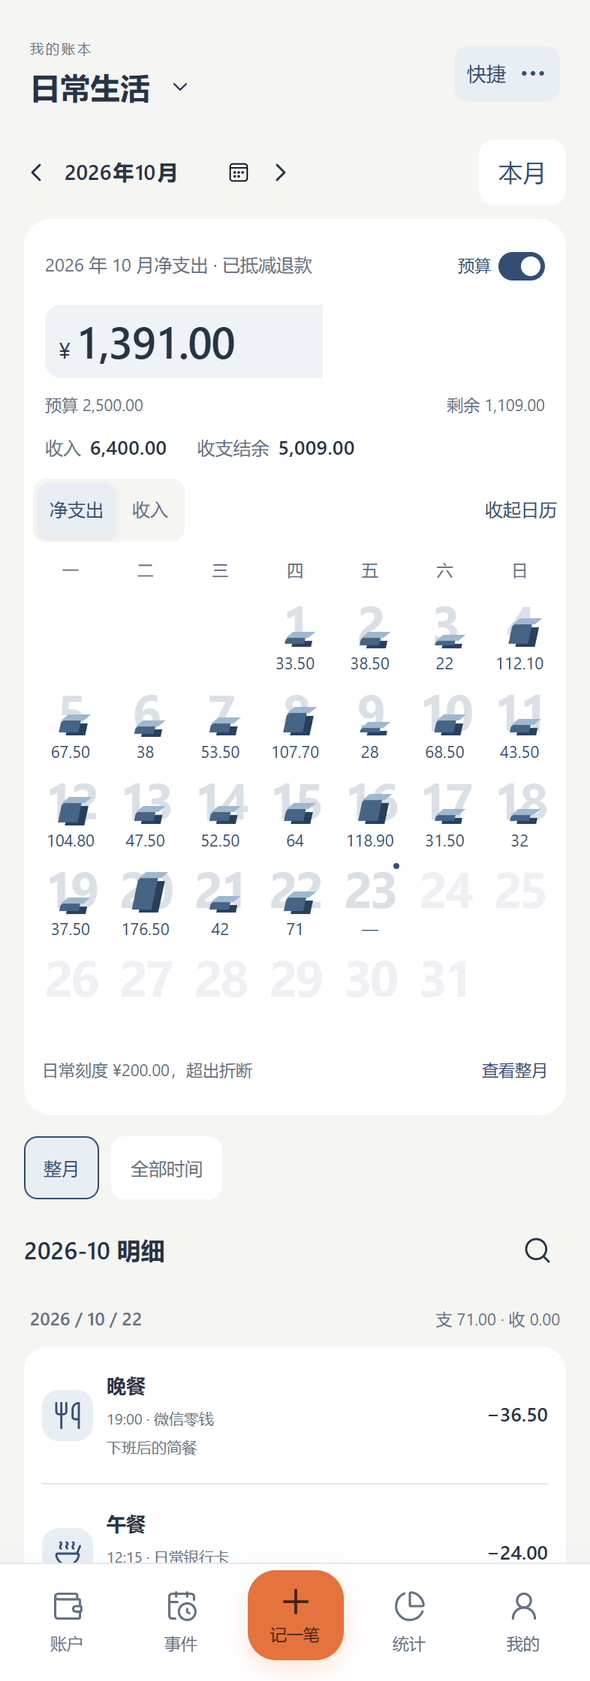
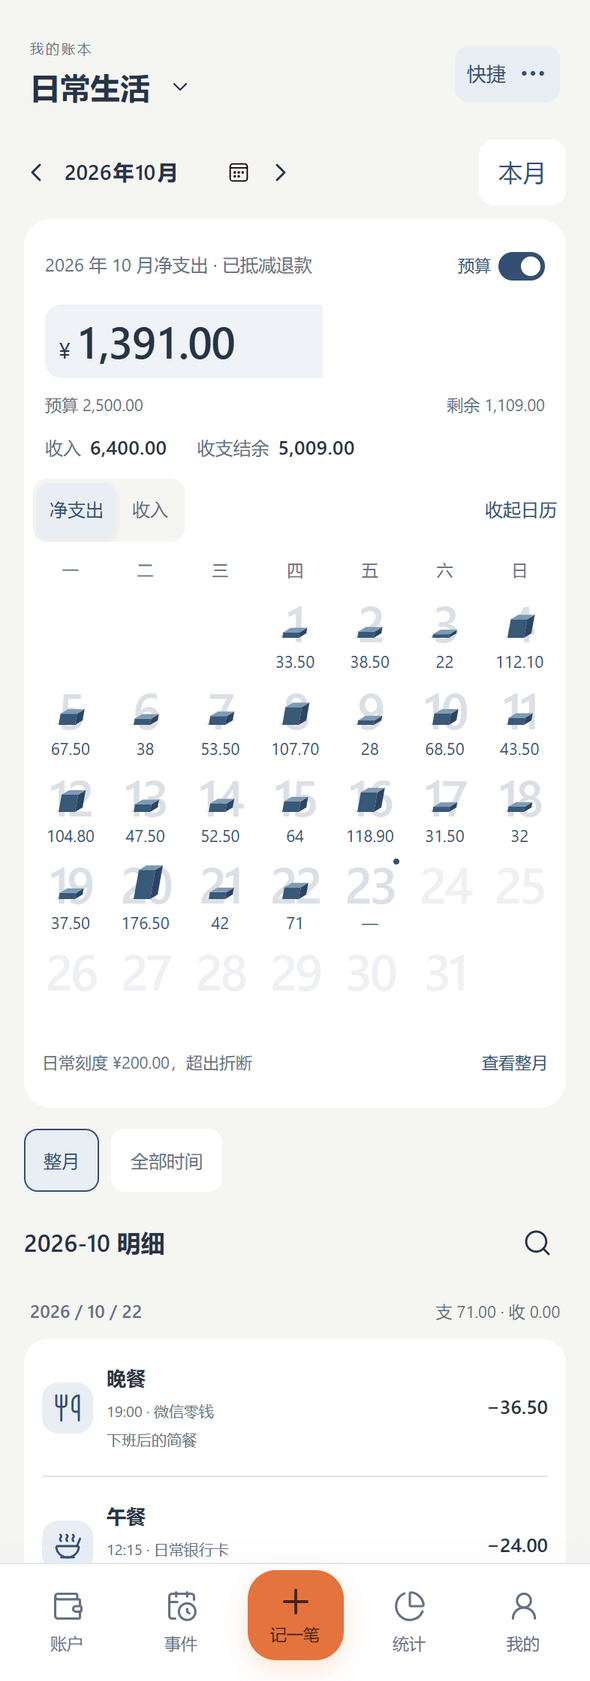
fix: 按原型还原日历柱体并打包钱包图标测试版
- 日历采用原型的连续三面 SVG、22 像素柱高和深浅配色，移除倾斜块硬阴影，保留实际金额、自动刻度和折断含义
- 原型与组件的 20 组渲染像素对照通过后重新截取 README 首页，展示图只使用虚构数据
- 14 项领域测试、12 条浏览器流程和生产构建通过，正式同签名 APK 从版本 10 覆盖到 11 后账本与凭证保持
- 生成包含 E 钱包图标的 0.1.3 测试包，保留当前公开 Release 和下载附件，物理手机效果交由用户实测

diff --git a/src/app/components/CalendarBar.vue b/src/app/components/CalendarBar.vue
@@ -1,0 +1,79 @@
+<script setup lang="ts">
+import { computed } from 'vue';
+const props = defineProps<{ amount: number; ceiling: number }>();
+const shape = computed(() => {
+  const ratio = props.ceiling > 0 ? Math.min(Math.abs(props.amount) / props.ceiling, 1) : 0;
+  // 沿用原型的 40×34 画布与 22px 柱高；三面共用顶点，避免硬阴影产生错位叠片。
+  const h = ratio * 22,
+    negative = props.amount < 0;
+  const base = negative ? 8 : 28,
+    dy = h * (negative ? -1 : 1),
+    dx = h * 0.18;
+  return {
+    ratio,
+    cut: props.ceiling > 0 && Math.abs(props.amount) > props.ceiling,
+    plane: `9,${base} 22,${base} 30,${base - 4} 17,${base - 4}`,
+    front: `12,${base} 23,${base} ${23 + dx},${base - dy} ${12 + dx},${base - dy}`,
+    side: `23,${base} 28,${base - 3} ${28 + dx},${base - 3 - dy} ${23 + dx},${base - dy}`,
+    top: `${12 + dx},${base - dy} ${23 + dx},${base - dy} ${28 + dx},${base - 3 - dy} ${17 + dx},${base - 3 - dy}`,
+  };
+});
+</script>
+<template>
+  <svg
+    class="calendar-bar"
+    :class="{ 'is-negative': amount < 0 }"
+    viewBox="0 0 40 34"
+    aria-hidden="true"
+    focusable="false"
+    :data-cut="shape.cut"
+    :data-ratio="shape.ratio"
+  >
+    <polygon :points="shape.plane" fill="var(--bar-plane)" />
+    <polygon :points="shape.front" fill="var(--bar-front)" />
+    <polygon :points="shape.side" fill="var(--bar-side)" />
+    <polygon :points="shape.top" fill="var(--bar-top)" />
+    <template v-if="shape.cut">
+      <path d="M12 19 L21 14 M20 19 L29 14" stroke="var(--bar-paper)" stroke-width="3.5" />
+      <path d="M12 19 L21 14 M20 19 L29 14" stroke="var(--bar-cut)" stroke-width="1.3" />
+    </template>
+  </svg>
+</template>
+<style scoped>
+.calendar-bar {
+  --bar-front: #385978;
+  --bar-side: #2c4662;
+  --bar-top: #7d9bb5;
+  --bar-plane: #e5ebf0;
+  --bar-paper: #ffffff;
+  --bar-cut: #974726;
+  --bar-green: #286b50;
+  position: absolute;
+  top: 3px;
+  left: 50%;
+  transform: translateX(-50%);
+  z-index: 1;
+  width: 40px;
+  max-width: 100%;
+  height: 34px;
+  display: block;
+  overflow: hidden;
+  pointer-events: none;
+}
+@media (prefers-color-scheme: dark) {
+  .calendar-bar {
+    --bar-front: #a6c6e8;
+    --bar-side: #7699ba;
+    --bar-top: #cce2f5;
+    --bar-plane: #3b4b5c;
+    --bar-paper: #222f3d;
+    --bar-cut: #ffc2a3;
+    --bar-green: #a5d8b9;
+  }
+}
+.calendar-bar.is-negative {
+  --bar-front: var(--bar-green);
+  --bar-side: var(--bar-green);
+  --bar-top: var(--bar-green);
+}
+</style>

diff --git a/src/app/pages/Home.vue b/src/app/pages/Home.vue
@@ -11,6 +11,7 @@ import { today } from '../../domain/time';
 import Icon from '../components/Icon.vue';
 import Modal from '../components/Modal.vue';
 import EntryList from '../components/EntryList.vue';
+import CalendarBar from '../components/CalendarBar.vue';
 const route = useRoute();
 const filters = ref(false),
   search = ref(''),
@@ -219,15 +220,8 @@ async function saveBudget() {
                   @click="ui.selectedDay = ui.selectedDay === day ? '' : day"
                 >
                   <span class="date-watermark">{{ Number(day.slice(8)) }}</span
-                  ><span
-                    v-if="day <= today() && value(day)"
-                    class="day-bar"
-                    :class="{ broken: Math.abs(value(day)) > scale }"
-                    :style="{
-                      height: Math.max(2, 24 * Math.min(Math.abs(value(day)) / (scale || 1), 1)) + 'px',
-                    }"
-                  ></span
-                  ><small>{{
+                  ><CalendarBar v-if="day <= today() && value(day)" :amount="value(day)" :ceiling="scale" />
+                  <small>{{
                     day > today() ? '' : days[day] ? money(value(day)).replace('.00', '') : '—'
                   }}</small>
                 </button></template

diff --git a/src/app/interface.css b/src/app/interface.css
@@ -236,7 +236,7 @@ textarea {
   padding: 4px 0 6px;
 }
 .calendar-cell {
-  height: 61px;
+  height: 58px;
   min-width: 0;
   border: 0;
 }
@@ -249,6 +249,7 @@ textarea {
   align-items: center;
   justify-content: center;
   font-size: clamp(30px, 8vw, 42px);
+  font-weight: 600;
   letter-spacing: -2px;
   color: var(--accent);
   opacity: 0.18;
@@ -271,24 +272,6 @@ textarea {
   font-size: 11px;
   bottom: 3px;
   color: var(--accent);
-}
-.day-bar {
-  bottom: 24px;
-  width: 13px;
-  background: #466486;
-  box-shadow: 5px 2px 0 #293f5a;
-  transform: skewX(-12deg);
-}
-.day-bar:before {
-  height: 4px;
-  top: -4px;
-  left: 2px;
-  right: -4px;
-  background: #9eb8d0;
-  transform: skewX(-45deg);
-}
-.negative .day-bar {
-  transform: skewX(-12deg) scaleY(-1);
 }
 .calendar-legend {
   padding: 0 6px;
@@ -903,7 +886,7 @@ textarea {
     margin: 9px 0 0;
   }
   .calendar-cell {
-    height: 59px;
+    height: 58px;
   }
   .calendar-cell small {
     font-size: 11px;
@@ -1028,13 +1011,6 @@ textarea {
   }
   .entry-icon.account-tone-receivable {
     color: #e7c291;
-  }
-  .day-bar {
-    background: #aec6e8;
-    box-shadow: 5px 2px 0 #7699ba;
-  }
-  .day-bar:before {
-    background: #cce2f5;
   }
 }
 

diff --git a/src/app/style.css b/src/app/style.css
@@ -665,41 +665,6 @@ svg {
   color: var(--muted);
   font-variant-numeric: tabular-nums;
 }
-.day-bar {
-  position: absolute;
-  bottom: 21px;
-  width: 15px;
-  background: linear-gradient(90deg, #6c85a7, #7992b2);
-  border-radius: 2px 0 0 0;
-  box-shadow: 3px 1px 0 #4a658b55;
-}
-.day-bar:before {
-  content: '';
-  position: absolute;
-  top: -3px;
-  height: 3px;
-  left: 1px;
-  right: -2px;
-  transform: skewX(-32deg);
-  background: #aac0d8;
-}
-.day-bar.broken:after {
-  content: '≋';
-  position: absolute;
-  bottom: 5px;
-  left: -2px;
-  right: -3px;
-  color: var(--surface);
-  font-size: 21px;
-  font-weight: 900;
-  line-height: 8px;
-  transform: rotate(-12deg);
-}
-.negative .day-bar {
-  background: var(--green);
-  box-shadow: 3px -1px 0 #367b6933;
-  transform: scaleY(-1);
-}
 .negative small {
   color: var(--green);
 }
@@ -1969,9 +1934,6 @@ svg {
   }
   .income-track i {
     background: #91c9ae33;
-  }
-  .day-bar {
-    background: linear-gradient(90deg, #7293c1, #8eabd1);
   }
   .danger {
     color: #32201e;

diff --git a/src/app/pages/Settings.vue b/src/app/pages/Settings.vue
@@ -141,7 +141,7 @@ async function restore() {
           卸载、清除应用或站点数据会丢失本地账目，请先导出备份并独立保存恢复密钥。系统权限与安装渠道可能不同，尚未完成应用商店审核。
         </p>
       </details>
-      <p class="hint">BesLedger 0.1.2 · 人民币 · 本地加密</p>
+      <p class="hint">BesLedger 0.1.3 · 人民币 · 本地加密</p>
       <a
         href="https://github.com/BensonLaur/BesLedger"
         target="_blank"

diff --git a/docs/DELIVERY_VERIFICATION.md b/docs/DELIVERY_VERIFICATION.md
@@ -1,5 +1,14 @@
 # 逐项验收记录
 
+## 0.1.3 测试构建：原型柱体与钱包图标（2026-10-23）
+
+- 将近似的倾斜块/硬阴影替换为原型的连续三面 SVG，采用 22px 柱高、原型配色和折断标记，日期格 58px、水印字重 600；金额、自动刻度和日期筛选的业务逻辑保持。
+- `node scripts/test-calendar-visual.mjs` 直接从原型源码提取参考绘制，浅色/深色、极小额、接近上限、等于上限、超额和负值共 20 组实际 Vue 渲染像素逐一相同。14 项领域测试与桌面/手机尺寸/WebKit 的 12 条相关流程通过。
+- 在修正并对照通过后重新运行生产构建截图流程，README 首页替换为当前效果；其他两图未发生变化。三图均为虚构数据，压缩后合计约 206 KiB；未使用用户手机原始截图。
+- Web 及长期签名 Android 构建通过，包名不变，versionName 0.1.3 / versionCode 11。API 36 隔离模拟器实际由正式 0.1.2（10）直接覆盖到新包（11），原虚构账本解锁、模拟登录恢复，SQLite 的 vault 与 credentials 加密记录逐字节一致；原生界面显示修正后的柱体，系统应用信息页显示钱包图标。实际手机仍待用户测试。
[1 lines of base64/hex data omitted]
+- 本轮先交付测试包，不新增公开阶段性 Release，也不改写 0.1.2 的下载附件。公开历史发布及归档记录继续保留。
+
 ## 0.1.2 统一界面与登录同步交付（2026-10-23）
 
 本轮合并共享工作区的产品、我的页面与原型说明，更新原型可视状态和正式 Vue 应用；沿用包名 `com.bensoftware.besledger`、长期签名与 Android versionCode 10。当前入口为 [0.1.2 完整版本](https://github.com/BensonLaur/BesLedger/releases/tag/v0.1.2)。以下区分当前实测与历史真实 GitHub 验收，物理 Android/iPad 仍由用户实测。

diff --git a/README.md b/README.md
@@ -18,13 +18,13 @@ Web/PWA 已内置维护者提供的登录服务，普通用户无需注册托管
 
 ## 界面预览
 
-以下为实际运行的 Web/PWA 手机布局，与 Android 共用界面。全部账本、账户和金额均为虚构演示数据；工资示例为 6,000 元，另有 400 元奖金。点击图片可查看大图。
+以下为当前 0.1.3 构建实际运行的 Web/PWA 手机布局，与 Android 共用界面；首页柱体已按原型的连续三面、配色和比例重新绘制后截图。全部账本、账户和金额均为虚构演示数据；工资示例为 6,000 元，另有 400 元奖金。点击图片可查看大图。
 
 | 收支日历与月预算 | 分类记账与数字键盘 | 账户与资产总览 |
 | :---: | :---: | :---: |
 | <a href="docs/images/preview-home.png"><img src="docs/images/preview-home.png" width="260" alt="真实运行界面：月度收支、预算水印与每日金额日历，使用虚构数据" /></a> | <a href="docs/images/preview-entry.png"><img src="docs/images/preview-entry.png" width="260" alt="真实运行界面：午餐分类选中、金额、备注、付款账户和数字键盘" /></a> | <a href="docs/images/preview-accounts.png"><img src="docs/images/preview-accounts.png" width="260" alt="真实运行界面：现金、信用卡、银行卡和网络账户的虚构余额" /></a> |
 
-当前源码采用「日常钱包」图标；已发布的 0.1.2 APK 仍是原 B 图标，新图标将随下一次安装包更新。
+当前 0.1.3 测试构建采用「日常钱包」图标与新版日历柱体，Android versionCode 11 沿用原包名和长期签名。上方公开 Release 仍为 0.1.2，其 APK 保留原 B 图标；测试迭代不单独新增公开 Release，也不覆盖旧版附件。
 
 ## 登录、解锁与同步
 

diff --git a/docs/HOME_DESIGN.md b/docs/HOME_DESIGN.md
@@ -71,6 +71,8 @@
 
 ### 轻立体柱与大额金额
 
+2026-10-23 实现校正：正式应用改用 `CalendarBar.vue` 的 SVG，直接沿用原型 40×34 画布、22 像素最大柱高、三面共用顶点、底面与深浅色配色；移除倾斜方块叠硬阴影的近似画法。日期格恢复 58 像素、水印字重 600。真实日汇总、自动刻度和日期筛选继续使用领域逻辑。`node scripts/test-calendar-visual.mjs` 从本原型源码提取参考绘制，与实际 Vue 组件对照；正值、负值、边界和折断的深浅色 20 组渲染像素一致后，再运行 `node scripts/capture-readme.mjs` 更新展示图。
+
 已确定保持日历平面与日期正向，仅在格内柱体增加浅侧面、顶面及少量向右偏移。整体倾斜会缩小远端触摸区域；柱体穿过邻格会干扰选中，因此柱体严格约束在所属日期格的预留区域。
 
 已确定采用日常刻度：超过上限的柱体封顶并明确画出折断符号，显示刻度上限；日期格保留金额，选中显示精确金额。折断只表示超过图形刻度，不表示消费异常、超预算或账单有误。预算设置不参与刻度计算。
